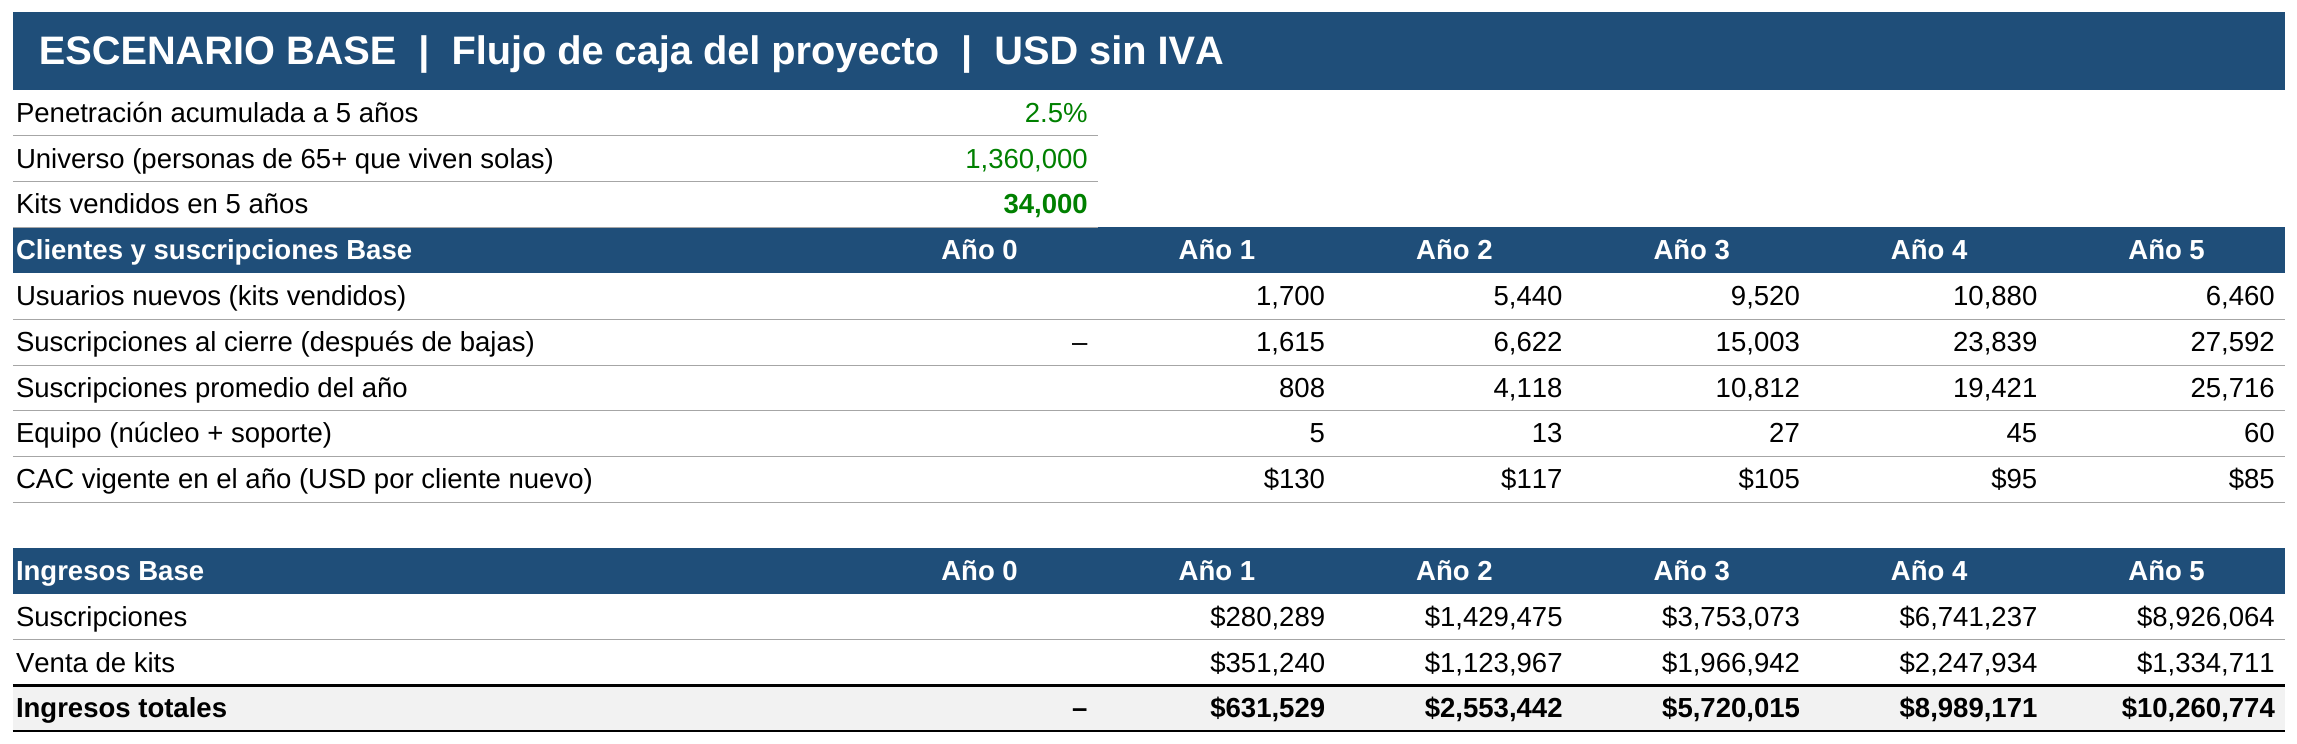
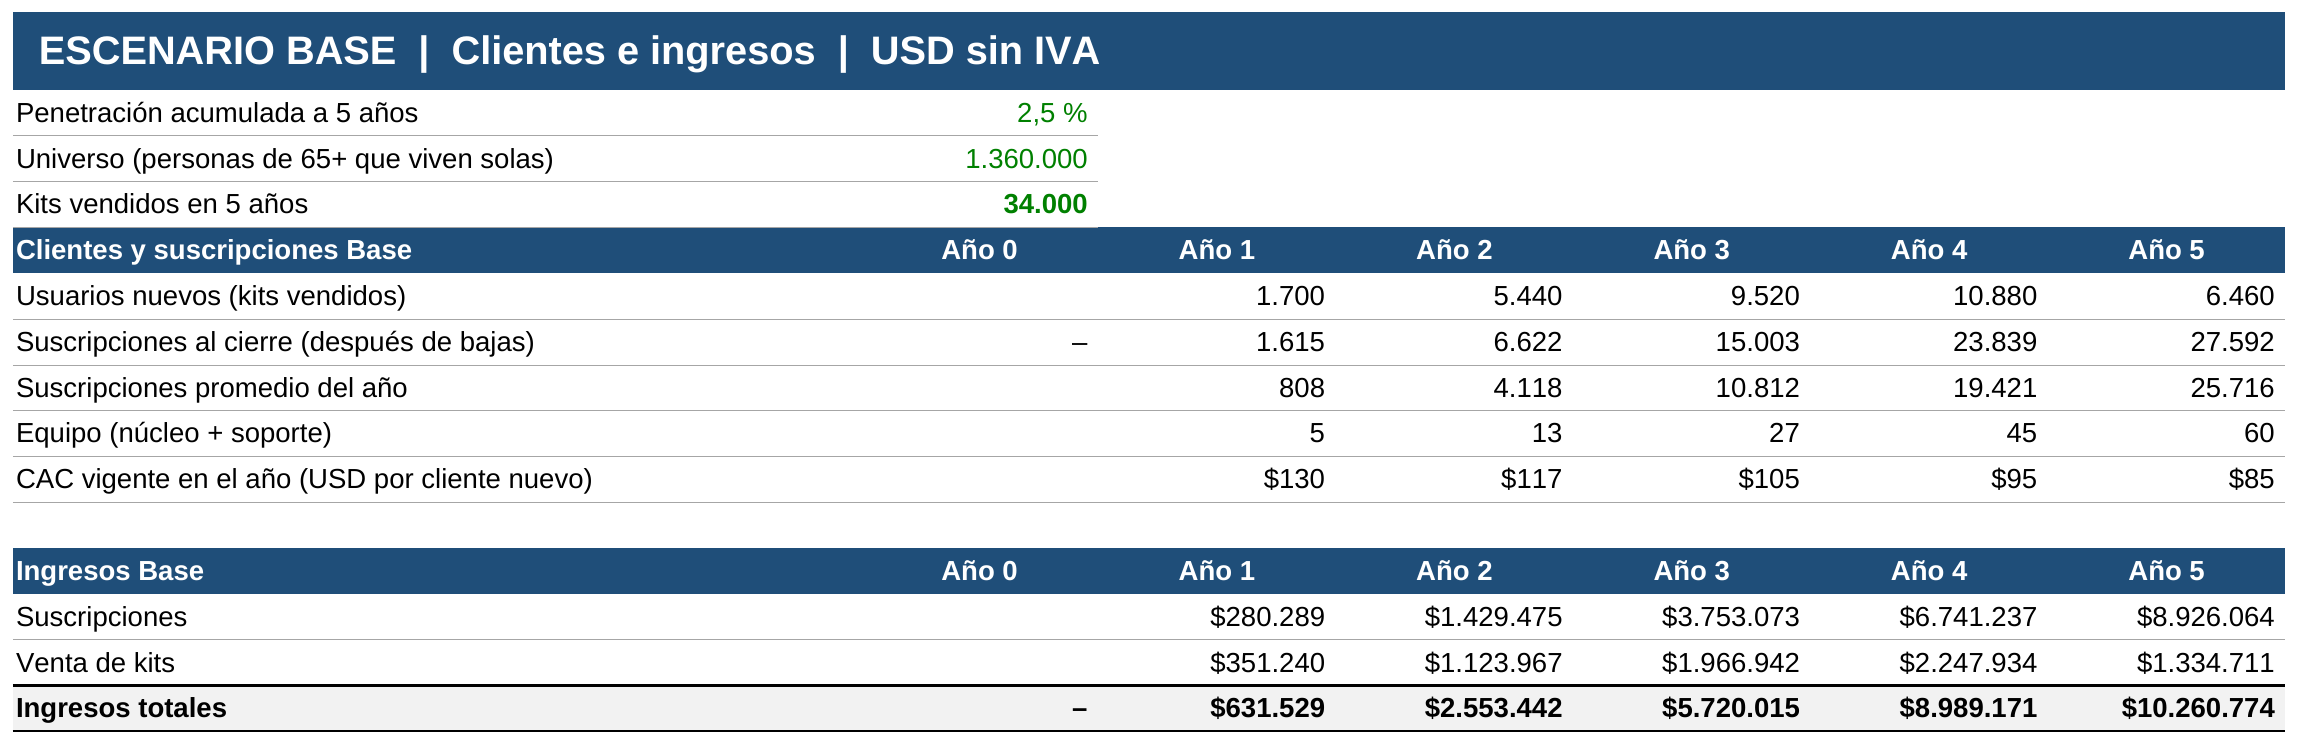
revision EP3 imágenes: capturas del modelo financiero en formato argentino
- Siete capturas reexportadas con separadores es-AR (1.360.000, 206,61, 0,87 %).
- "Clientes e ingresos" en captura_base_datos, fila de años en los indicadores, nota del canal institucional eliminada.
- "Infraestructura cloud" pasa a "Infraestructura en la nube" en los flujos Base, Bear y Bull.
- IMAGENES_PENDIENTES.md actualizado; Pose Estimation y Gantt descartados.

Changed region(s): [[0.1855, 0.0309, 0.5255, 0.0927], [0.4327, 0.1237, 0.4636, 0.1855]]

diff --git a/IMAGENES_PENDIENTES.md b/IMAGENES_PENDIENTES.md
@@ -8,7 +8,7 @@ El orden va de lo que más pesa en la rúbrica a lo opcional.
 
 ## A. Obligatorias (contradicen el texto o tienen errores visibles)
 
-### 1. Fig. 3.6, diagrama de casos de uso
+### 1. Fig. 3.6, diagrama de casos de uso (descartado lo que queda)
 **Archivo:** `Imagenes/Diagrama_Casos_Uso_PFI.png`
 
 - [x] Borrar el recuadro **"Banco de figuras de casos de uso"** de la izquierda, abajo de la leyenda. Es un resto de la plantilla.
@@ -81,25 +81,18 @@ Ya es bastante genérica, así que alcanza con corregir los rótulos:
 - [x] **"Notificaciones PUSH en la App Mobile"** → **"Notificaciones en la aplicación móvil"**.
 - [x] **"Machine Learning: construcción de línea base de comportamiento"** → **"Aprendizaje automático: construcción de la línea base de comportamiento"**.
 
-### 9. Capturas del modelo financiero (Fig. 3.14 a 3.20), opcional
+### 9. Capturas del modelo financiero (Fig. 3.14 a 3.20) ✓
 
-Surgió de la revisión interna (H117), no es un pedido de la cátedra. Es por consistencia con el formato de números del texto.
-**Archivos:** `captura_supuestos.png`, `captura_wacc.png`, `captura_bear_flujo.png`, `captura_base_datos.png`, `captura_base_indicadores.png`, `captura_base_flujo.png`, `captura_bull_flujo.png`
-
-- [ ] Configurar la planilla en **español (Argentina)** y volver a exportar. Hoy figura "1,360,000", "$206.61", "0.87%" y "14.7x", y debe quedar **1.360.000**, **206,61**, **0,87 %** y **14,7x**.
-- [ ] Rótulos en inglés:
-  - "Infraestructura cloud" → **"Infraestructura en la nube"**
-  - "Payback" → **"Período de recupero"**
-- [ ] En `captura_base_datos.png`, el título **"Flujo de caja del proyecto"** no corresponde a lo que muestra. Cambiarlo a **"Clientes e ingresos"**.
-- [ ] En `captura_base_indicadores.png`, agregar la fila de encabezado **"Año 0 … Año 5"** en el flujo descontado.
-- [ ] En `captura_supuestos.png`, la nota "Base y Bull suponen ventas por canal institucional" choca con el texto, que dice que ese canal no se modela por separado. Borrar la nota o ajustarla.
+- [x] Reexportadas en formato argentino, con "Clientes e ingresos", la fila de años en los indicadores y sin la nota del canal institucional.
+- [x] "Infraestructura cloud" → "Infraestructura en la nube" en los tres flujos.
+- "Payback" queda así: el texto usa el mismo término (chapter03, definición y tabla de resultados).
 
 ### 10. Fig. 3.13, Business Model Canvas ✓
 **Archivo:** `bmc.png`
 
 - [x] **"Sin visita presencial"** → **"Visita presencial solo excepcional"**, como dice el texto.
 
-### 11. Anexo A, diagrama de Gantt
+### 11. Anexo A, diagrama de Gantt (descartado lo que queda)
 **Archivos:** `Imagenes/Gantt/DiagramaGantt1.png` y `DiagramaGantt5.png`
 
 - [ ] **Parte 1:** el encabezado dice **"Inicio: 15/03/26"** pero la tarea "Brainstorming" va del 10/03 al 14/03. Mover el inicio a **10/03/26**.
